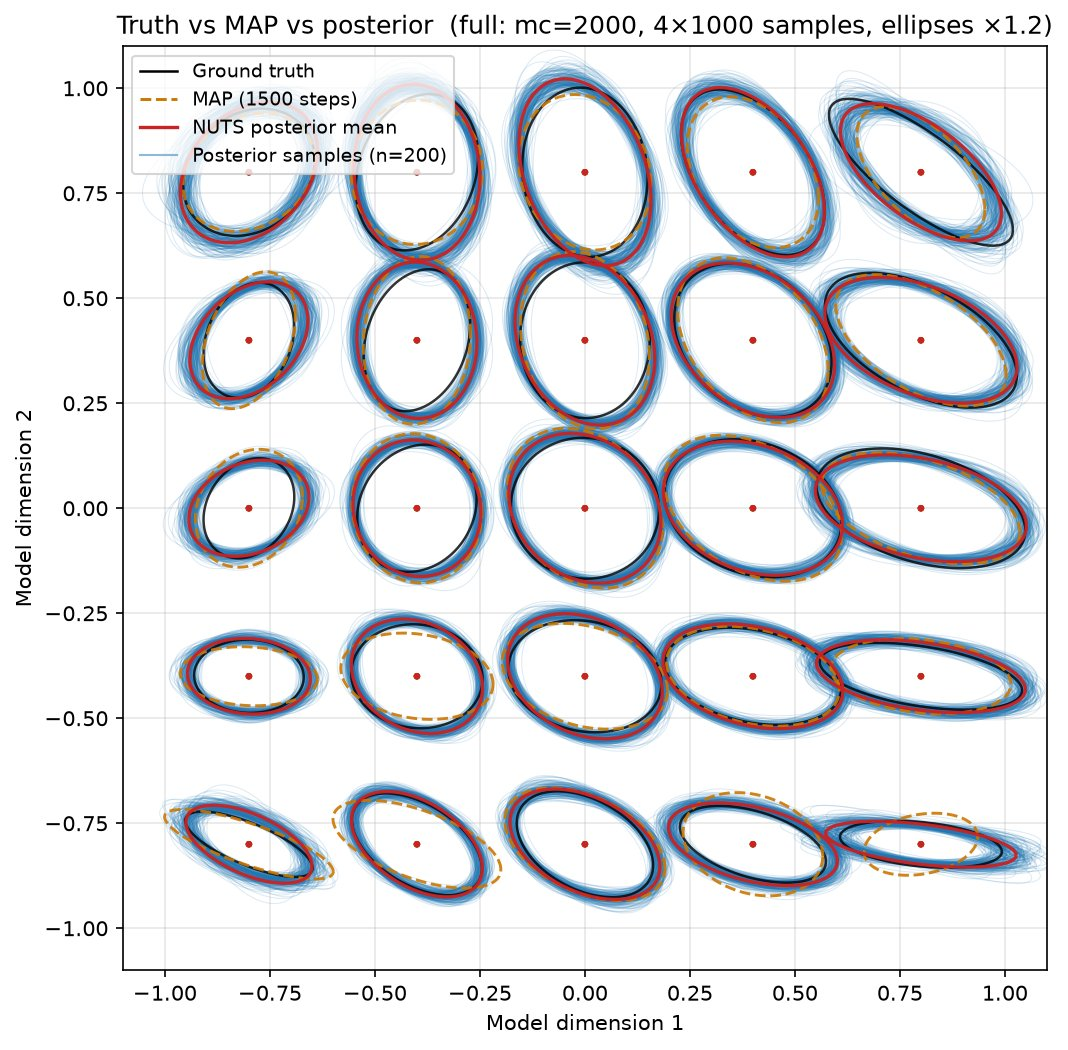
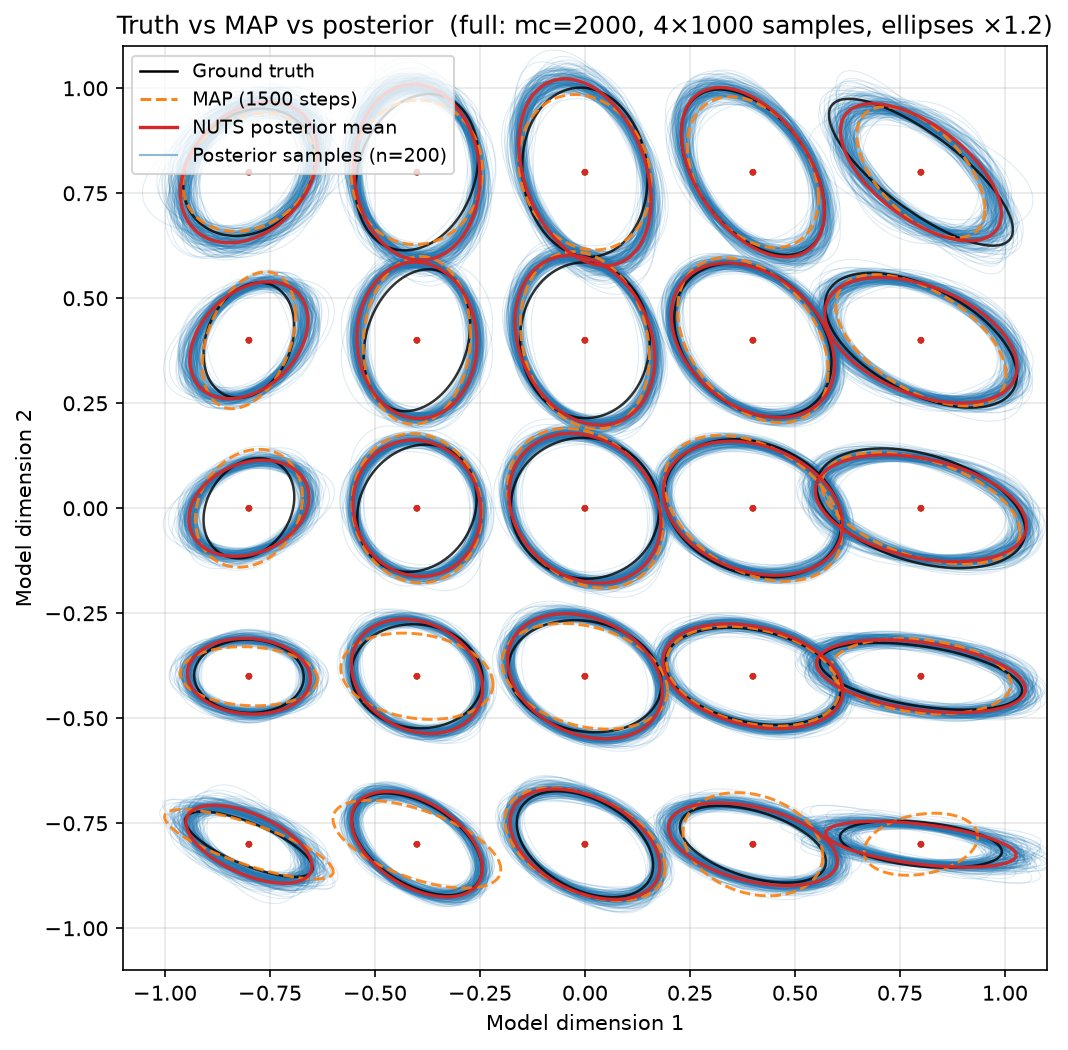
.

diff --git a/docs/examples/wppm/nuts_inference_example.py b/docs/examples/wppm/nuts_inference_example.py
@@ -631,7 +631,7 @@ plot_ellipses(
     [jax.device_get(covs_mean), jax.device_get(covs_truth)],
     ax=ax,
     scale=ELLIPSE_SCALE,
-    colors=["#cc2222", "k"],
+    colors=["C3", "k"],
     labels=["Posterior mean", "Ground truth"],
     linewidths=[1.5, 1.2],
     alpha=[0.9, 0.7],
@@ -847,20 +847,20 @@ except ImportError:
 # 7. MAP vs NUTS mean comparison (side-by-side)
 # ---------------------------------------------------------------------------
 fig, axes = plt.subplots(1, 3, figsize=(18, 6))
-# (field, colour, label, draw_the_posterior_ensemble_behind_it)
+# (field, color, label, draw_the_posterior_ensemble_behind_it)
 #
 
 configs = [
     (truth_field, "k", "Ground truth", False),
     (
         WPPMCovarianceField(model, map_posterior.params),
-        "#cc7700",
+        "C1",
         f"MAP ({MAP_STEPS} steps)",
         False,
     ),
     (
         fields.mean,
-        "#cc2222",
+        "C3",
         f"NUTS mean ({NUM_CHAINS}×{NUM_SAMPLES} samples) + {n_ensemble} of them shown",
         True,
     ),
@@ -879,7 +879,7 @@ for ax, (field, color, label, with_ensemble) in zip(axes, configs):
             linewidths=0.5,
             alpha=0.15,
         )
-        # A proxy handle: the ensemble is n_ensemble fields sharing one colour,
+        # A proxy handle: the ensemble is n_ensemble fields sharing one color,
         # so labelling it in plot_ellipses would give n_ensemble identical
         # legend entries.
         ax.plot(
@@ -945,7 +945,7 @@ plot_ellipses(
     ],
     ax=ax,
     scale=ELLIPSE_SCALE,
-    colors=["k", "#cc7700", "#cc2222"],
+    colors=["k", "C1", "C3"],
     labels=["Ground truth", f"MAP ({MAP_STEPS} steps)", "NUTS posterior mean"],
     linewidths=[1.2, 1.4, 1.6],
     linestyles=["-", "--", "-"],
@@ -955,7 +955,7 @@ plot_ellipses(
 # --8<-- [end:overlay]
 
 # plot_ellipses builds its legend from `labels`, one entry per field. The
-# ensemble is n_ensemble fields sharing one colour, so it gets a proxy handle
+# ensemble is n_ensemble fields sharing one color, so it gets a proxy handle
 # instead; labelling it there would produce n_ensemble identical entries.
 ax.plot(
     [],
